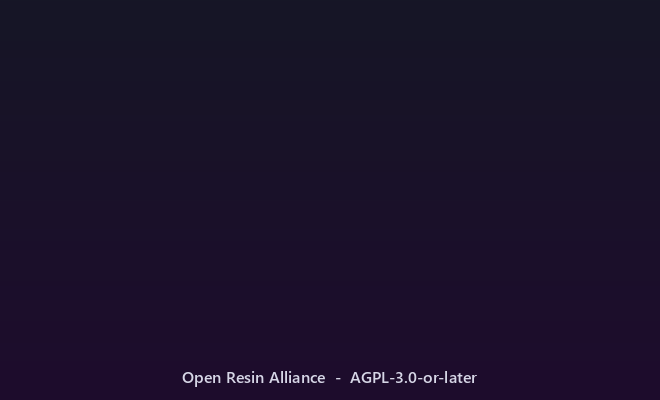
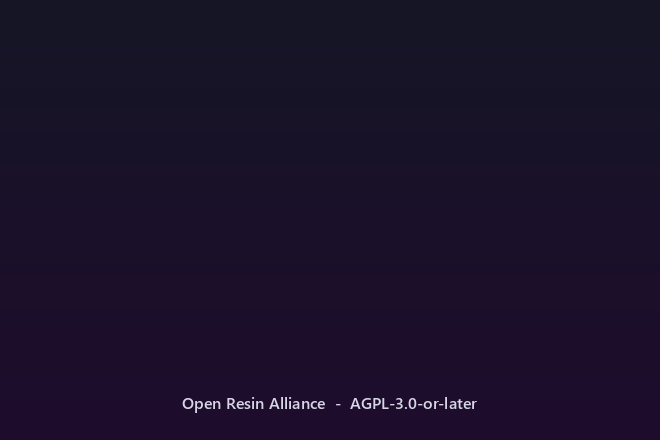
feat: bump version to 0.1.9 and update related assets

Changed region(s): [[0.2727, 0.9, 0.7273, 0.96]]

diff --git a/scripts/gen_nsis_images.py b/scripts/gen_nsis_images.py
@@ -115,8 +115,8 @@ paste_logo(sidebar, ora, W_S // 2, ora_cy, LOGO_SIZE_S)
 sidebar.convert("RGB").save(f"{OUT_DIR}/sidebar.bmp", format="BMP")
 print(f"Sidebar saved: {sidebar.size}")
 
-# ── DMG BACKGROUND: 660 × 400 ────────────────────────────────────────────────
-W_D, H_D = 660, 400
+# ── DMG BACKGROUND: 660 × 440 ────────────────────────────────────────────────
+W_D, H_D = 660, 440
 dmg_bg = Image.new("RGB", (W_D, H_D), BG_DARK)
 draw = ImageDraw.Draw(dmg_bg)
 
@@ -127,7 +127,7 @@ footer_bbox = draw.textbbox((0, 0), footer_text, font=font_footer)
 footer_w = footer_bbox[2] - footer_bbox[0]
 footer_h = footer_bbox[3] - footer_bbox[1]
 footer_x = (W_D - footer_w) // 2
-footer_y = H_D - footer_h - 18
+footer_y = H_D - footer_h - 32
 
 draw.text((footer_x, footer_y), footer_text, font=font_footer, fill=FOOTER)
 